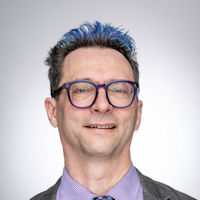
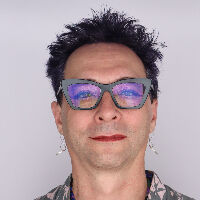
Updated head-shots.

diff --git a/content/about.md b/content/about.md
@@ -104,8 +104,9 @@ Click to download a high-resolution version. This may be used in media releases 
 [![Brown](/files/headshots/Gilligan_Jonathan_brown_thumb.jpg)](/files/headshots/Gilligan_Jonathan_brown.jpg)
 [![Informal](/files/headshots/Gilligan_Jonathan_informal_close_thumb.jpg)](/files/headshots/Gilligan_Jonathan_informal_close.jpg)
 [![Informal Large](/files/headshots/Gilligan_Jonathan_informal_large_thumb.jpg)](/files/headshots/Gilligan_Jonathan_informal_large.jpg)
--->
 [![2022](/files/headshots/Gilligan_Jonathan_2022_thumb.jpg)](/files/headshots/Gilligan_Jonathan_2022.jpg)
+-->
+[![2024](/files/headshots/Gilligan_Jonathan_2024_close_thumb.jpg)](/files/headshots/Gilligan_Jonathan_2024_close.jpg)
 
 ## Academic/Professional Data:
 
